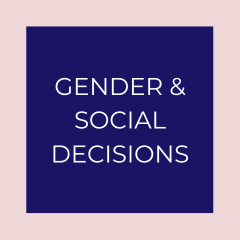
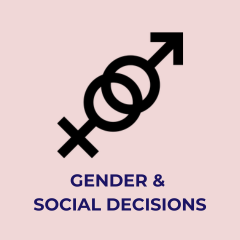
updated portfolio covers to simple

diff --git a/css/style.css b/css/style.css
@@ -1727,21 +1727,19 @@ input[type="text"] {
 
 .main .container-fluid{
 overflow: hidden;
-padding: 0;
 }
 
 .main .container-fluid .col-md-3{
   padding: 0;
   float: left;
-  transition: all 5s ease-in-out
 }
 
 .main .container-fluid img{
-  width: 100%
+  width: 100%;
 }
 
 @media (max-width: 767px){
   .main .container-fluid img{
-      margin-bottom: 15px
+      margin-bottom: 10px
   }
 }
